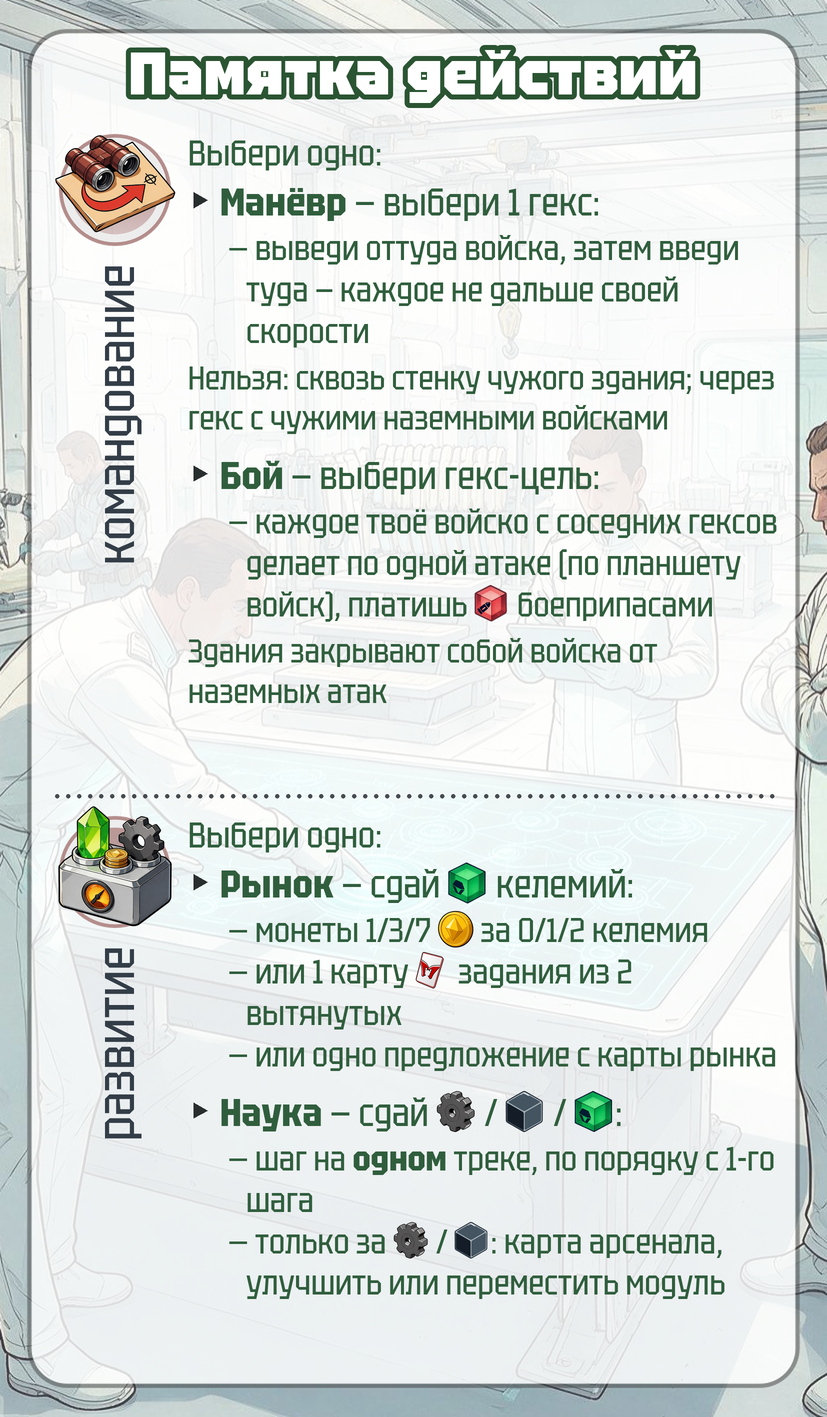
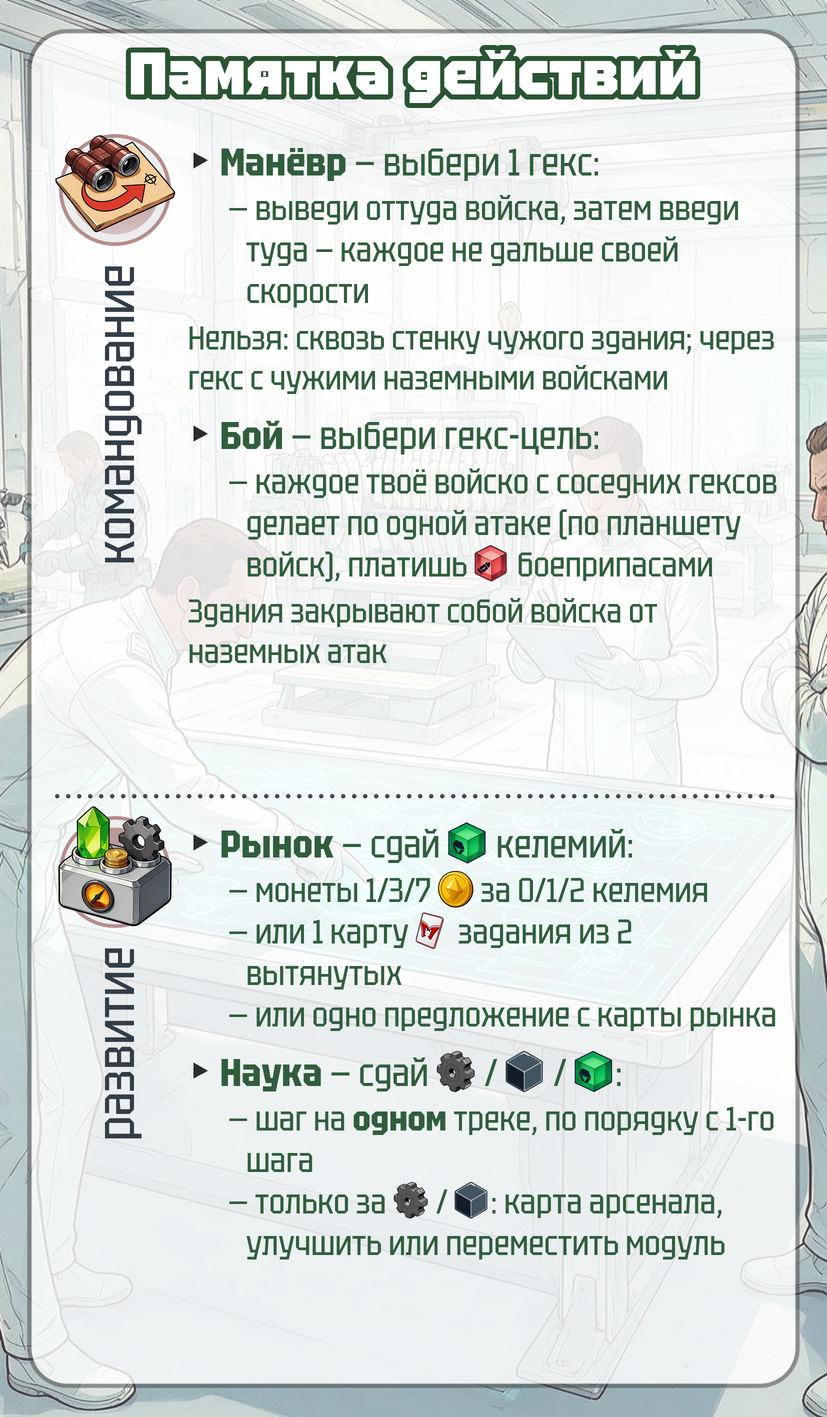
Памятка действий 5.0: схема зоны стройки (иконка дизайнера 76), без «Выбери одно»

Changed region(s): [[0.2116, 0.0932, 0.9371, 0.4968], [0.2116, 0.5589, 0.9371, 0.9315]]

diff --git a/tools/gen_memo_5.py b/tools/gen_memo_5.py
@@ -44,6 +44,7 @@ K = 2
     'ring': os.path.join(ЭКСПОРТ, 'все иконки-24.png'),
     'unit': os.path.join(ЭКСПОРТ, 'все иконки-49.png'),
     'military': os.path.join(ЭКСПОРТ, 'все иконки-29.png'),
+    'build_zone': os.path.join(ЭКСПОРТ, 'все иконки-76.png'),   # свой гекс / гекс за стенкой
 }
 _кэш = {}
 
@@ -169,7 +170,7 @@ def раздел(холст, y0, y1, иконка, подпись, строки,
     холст.alpha_composite(лист, (round(cx * K - лист.width / 2),
                                  round((cy + r + 14) * K)))
     # текст
-    y = y0 + 12
+    y = y0 + 20
     x = 188
     for вид, части in строки:
         if вид == 'заг':
@@ -207,7 +208,6 @@ def карточка_1():
     d = ImageDraw.Draw(холст)
     разделы = [
         ('extract', 'добыча', [
-            ('заг', [('т', 'Выбери одно:')]),
             ('ветка', [('ж', 'Добыть')]),
             ('под', [('т', '− каждым добытчиком с энергией: '), ('и', 'kelium'),
                      ('т', ' келемий с примыкающего зарождения или '), ('и', 'container'),
@@ -216,7 +216,6 @@ def карточка_1():
             ('под', [('т', '− за его цену в '), ('и', 'coin'), ('т', '; он сразу добывает, энергия не нужна')]),
         ]),
         ('power', 'питание', [
-            ('заг', [('т', 'Выбери одно:')]),
             ('ветка', [('ж', 'Переложить энергию')]),
             ('под', [('т', '− любые свои кубики '), ('и', 'energy'),
                      ('т', ': с источников на ячейки '), ('и', 'energy_cell'),
@@ -225,7 +224,6 @@ def карточка_1():
             ('под', [('т', '− за её цену в '), ('и', 'coin'), ('т', '; её новые кубики сразу раскладываешь')]),
         ]),
         ('supply', 'снабжение', [
-            ('заг', [('т', 'Выбери одно:')]),
             ('ветка', [('ж', 'Выпустить')]),
             ('под', [('т', '− каждым военным зданием с энергией и ЦУ: нанять '), ('и', 'unit'),
                      ('т', ' войско на гекс здания или '), ('и', 'ammo'),
@@ -235,17 +233,19 @@ def карточка_1():
         ]),
     ]
     # высота разделов — по объёму текста
-    границы = [118, 520, 848, 1210]
+    границы = [118, 500, 812, 1150]
     низ = границы[-1]
     for i, (ик, подп, стр) in enumerate(разделы):
         раздел(холст, границы[i], границы[i + 1] - 8, ик, подп, стр)
         if i < 2:
             пунктир(d, границы[i + 1] - 4)
-    # общая строка о стройке
+    # общая строка о стройке и схема зоны стройки дизайнера (иконка 76)
     пунктир(d, низ + 4)
-    абзац(холст, 60, низ + 18, 710, [
+    h = абзац(холст, 60, низ + 16, 710, [
         ('ж', 'Построить'), ('т', ' — одно здание за его цену, на гексе с твоим зданием или '
-         'к которому оно свободно примыкает стенкой. Снести своё: +1 '), ('и', 'coin')], 30)
+         'к которому оно свободно примыкает стенкой. Снести своё: +1 '), ('и', 'coin')], 31)
+    зона = вписать(икона('build_zone'), 520 * K, 110 * K)
+    холст.alpha_composite(зона, (round(413 * K - зона.width / 2), round((низ + 22 + h) * K)))
     return холст.resize((W, H), Image.LANCZOS).convert('RGB')
 
 
@@ -257,7 +257,6 @@ def карточка_2():
     d = ImageDraw.Draw(холст)
     разделы = [
         ('command', 'командование', [
-            ('заг', [('т', 'Выбери одно:')]),
             ('ветка', [('ж', 'Манёвр'), ('т', ' — выбери 1 гекс:')]),
             ('под', [('т', '− выведи оттуда войска, затем введи туда — каждое не дальше своей скорости')]),
             ('прим', [('т', 'Нельзя: сквозь стенку чужого здания; через гекс с чужими '
@@ -269,7 +268,6 @@ def карточка_2():
             ('прим', [('т', 'Здания закрывают собой войска от наземных атак')]),
         ]),
         ('develop', 'развитие', [
-            ('заг', [('т', 'Выбери одно:')]),
             ('ветка', [('ж', 'Рынок'), ('т', ' — сдай '), ('и', 'kelium'), ('т', ' келемий:')]),
             ('под', [('т', '− монеты 1/3/7 '), ('и', 'coin'), ('т', ' за 0/1/2 келемия')]),
             ('под', [('т', '− или 1 карту '), ('и', 'objective'), ('т', ' задания из 2 вытянутых')]),
